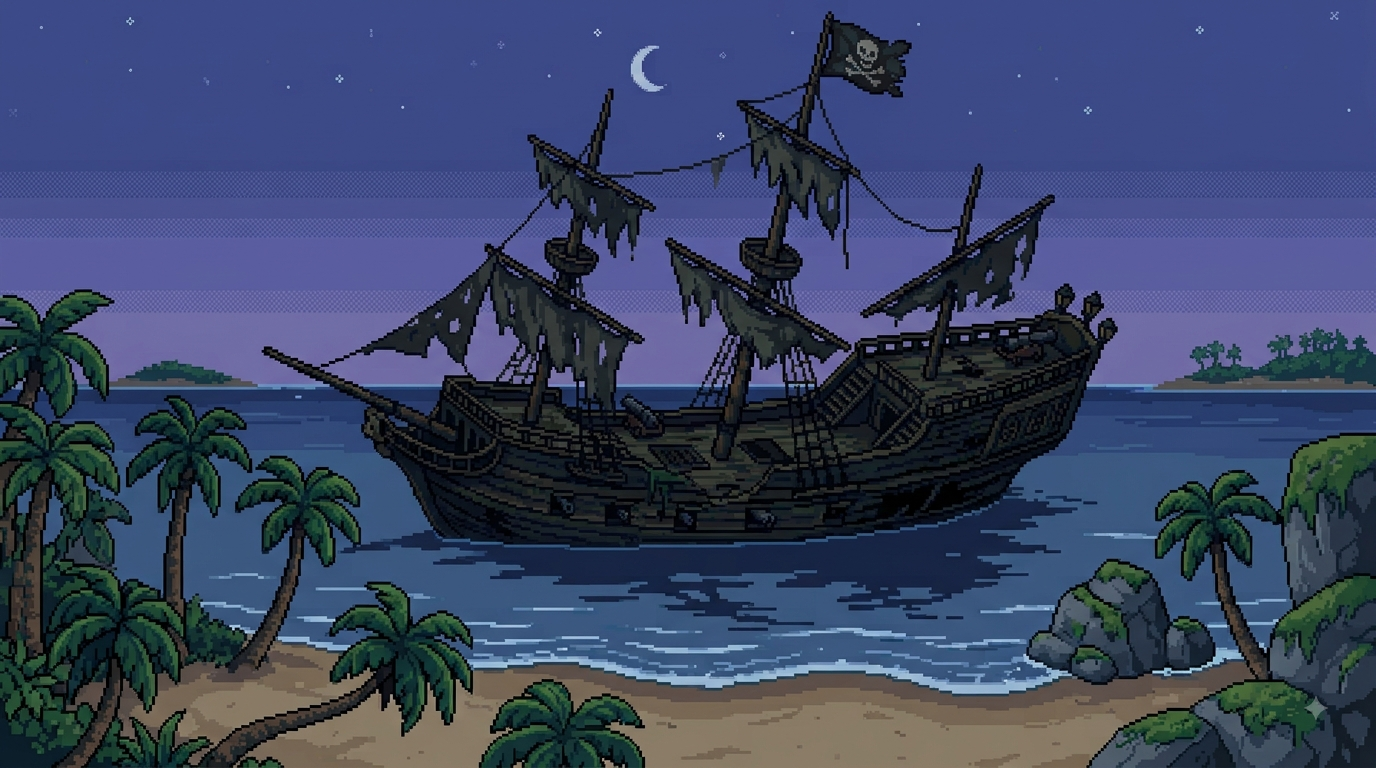
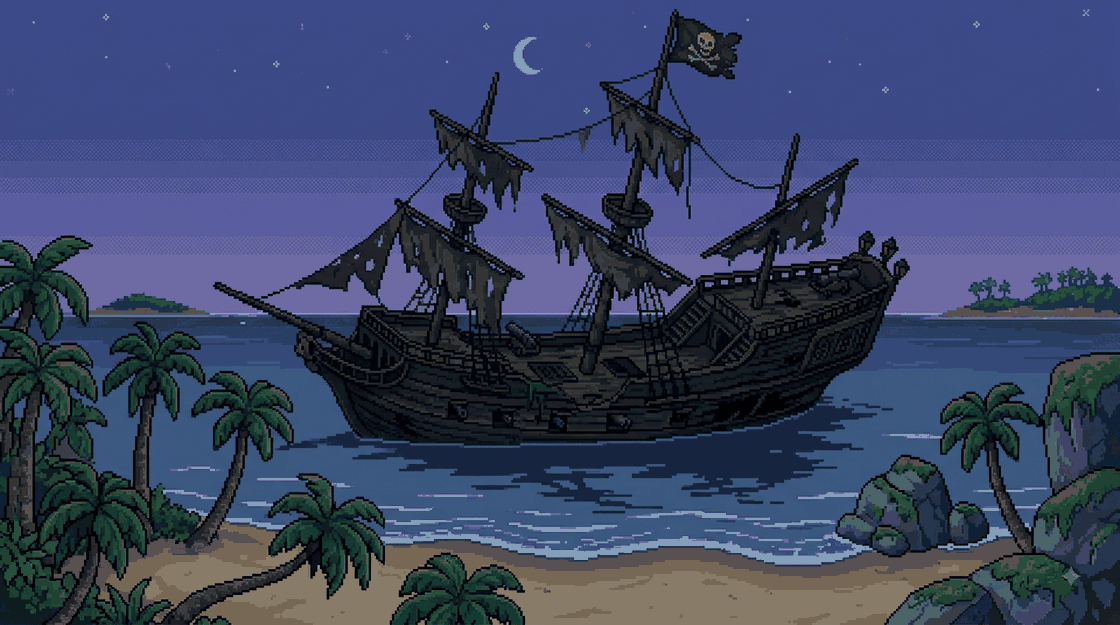
Cut the download from 6.9MB to 1.7MB, mostly by not shipping dead art
Everyone who opens a published game link downloads public/ before the
title screen appears. It was 6.9MB. Two separate problems, and neither
was the one the plan predicted.

**1.8MB was art nothing loads.** The parallax scene pool is dormant —
its only references are commented out in BootScene — but Vite copies
public/ verbatim, so eight PNGs for a switched-off feature were a
quarter of every visitor's download. Moved to art-source/, outside
public/, so it stays in the repo for whenever the picker returns
without being shipped meanwhile.

That move was going to be a deletion, on the strength of the generator
script's claim that its output is byte-identical on a re-run. Checked
before trusting it: six of the eight files reproduce exactly and
green-valley's two do not. The claim is now corrected in the script,
and the committed PNGs are named as the source of truth. Had I not
checked, restoring that art later would have silently produced
different pictures.

**The three big static backgrounds were stored wrong.** I planned this
as "painted art saved as PNG, re-encode to JPEG". The pixels disagreed:
they are pixel art — flat bands, a dithered sky, 1px stars — which is
exactly what JPEG smears. They were also 1376x768 while being cover-fit
onto a 1050x468 canvas, so a third of every pixel was unreachable.

Right-sizing to 1120px and quantizing to a 64-colour palette gets
4133KB down to 654KB while staying PNG and staying crisp — measured
[…]

diff --git a/src/scenes/BootScene.ts b/src/scenes/BootScene.ts
@@ -91,6 +91,14 @@ export class BootScene extends Phaser.Scene {
     // backgrounds.ts's docstring — so they were dropped from the pool
     // entirely.
     //
+    // **The art moved out of public/ on 2026-09-04** and now lives in
+    // `art-source/parallax-scenes/`. Vite copies public/ verbatim, so eight
+    // dormant PNGs nothing preloads were still 1.8MB of every visitor's
+    // download — a quarter of the whole site — for a feature that is switched
+    // off. Reviving the picker means moving them back here *and* uncommenting
+    // the loop below; the loop is left pointing at the old path on purpose, so
+    // whoever does one is forced to notice the other.
+    //
     // for (const scene of ["green-valley", "pirate-cove", "overgrown-ruins", "snowy-peaks"]) {
     //   this.load.image(`bg-${scene}-far`, `assets/backgrounds/scenes/${scene}-far.png`);
     //   this.load.image(`bg-${scene}-near`, `assets/backgrounds/scenes/${scene}-near.png`);

diff --git a/scripts/optimise-static-backgrounds.py b/scripts/optimise-static-backgrounds.py
@@ -1,0 +1,93 @@
+#!/usr/bin/env python3
+"""Right-sizes and re-quantizes the four shipped static backgrounds in place.
+
+These are the images `StaticBackground.ts` renders cover-fit behind a level
+(see level/staticBackgrounds.ts for the pool). Three of them were committed at
+1376x768 in full 24-bit colour and cost 4.1MB between them — most of the whole
+site's payload, downloaded by everyone who opens a published game link.
+
+Two things were wrong with that, and neither is the format:
+
+  * **They were larger than they can ever render.** The canvas is 1050x468
+    (config/gameConfig.ts) and these are cover-fit onto it, so anything past
+    ~1120px wide is detail the player never sees. Resizing is a pure win.
+
+  * **They are pixel art stored as though they were photographs.** Flat colour
+    bands, a dithered sky gradient and single-pixel stars — content with very
+    few *intended* colours, saved with tens of thousands of actual ones after
+    some earlier resample. Quantizing back to a 64-colour palette is close to
+    restoring the art's own intent, and indexed PNG compresses it hard.
+
+JPEG was measured and rejected: at a matching size it smears exactly the dither
+and the 1px stars that this art is made of, and it would have meant changing
+every filename the loader asks for. Staying PNG means **no code change at all**.
+
+Measured result: 4133KB -> 634KB, with the on-screen difference invisible at the
+scale these render (checked side by side before this script was written).
+
+Idempotent: an image already within the size and palette targets is left alone,
+so re-running this is safe and a second pass never re-quantizes already-indexed
+art.
+"""
+
+import os
+from pathlib import Path
+
+from PIL import Image
+
+REPO_ROOT = Path(__file__).resolve().parent.parent
+STATIC_DIR = REPO_ROOT / "public" / "assets" / "backgrounds" / "static"
+
+# A little wider than the 1050px canvas so a cover-fit never samples past the
+# edge, and so a slightly wider canvas later does not immediately need new art.
+TARGET_WIDTH = 1120
+# 64 was chosen by measuring 32/48/64/128: 64 is where the sky gradient stops
+# banding visibly against the original, and the file is still ~270KB at worst.
+PALETTE_COLOURS = 64
+
+
+def already_optimised(image: Image.Image) -> bool:
+    """True when this file has been through here before.
+
+    Checked rather than tracked in a manifest: the two properties this script
+    sets are both readable straight off the image, so the file is its own record
+    of whether the work is done.
+    """
+    if image.width > TARGET_WIDTH:
+        return False
+    colours = image.getcolors(maxcolors=PALETTE_COLOURS)
+    return colours is not None
+
+
+def optimise(path: Path) -> tuple[int, int]:
+    before = os.path.getsize(path)
+    image = Image.open(path)
+    if already_optimised(image):
+        return before, before
+
+    if image.width > TARGET_WIDTH:
+        height = round(image.height * TARGET_WIDTH / image.width)
+        # LANCZOS rather than NEAREST: the source is *not* clean pixel art any
+        # more (it carries resample artefacts already), so preserving its
+        # apparent detail beats trying to snap it back to a pixel grid it no
+        # longer sits on. The quantize below is what restores the flat bands.
+        image = image.resize((TARGET_WIDTH, height), Image.LANCZOS)
+
+    image = image.convert("RGB").quantize(colors=PALETTE_COLOURS, method=Image.MEDIANCUT)
+    image.save(path, "PNG", optimize=True)
+    return before, os.path.getsize(path)
+
+
+def main() -> None:
+    total_before = total_after = 0
+    for path in sorted(STATIC_DIR.glob("*.png")):
+        before, after = optimise(path)
+        total_before += before
+        total_after += after
+        note = " (already optimised)" if before == after else ""
+        print(f"{path.name:24s} {before / 1024:7.0f}KB -> {after / 1024:7.0f}KB{note}")
+    print(f"{'TOTAL':24s} {total_before / 1024:7.0f}KB -> {total_after / 1024:7.0f}KB")
+
+
+if __name__ == "__main__":
+    main()

diff --git a/scripts/generate-painted-backgrounds.py b/scripts/generate-painted-backgrounds.py
@@ -22,9 +22,22 @@ descriptions. `pirate-cove`/`overgrown-ruins`/`snowy-peaks` replace
 earlier, sparser versions of the same three scenes; `green-valley` is
 new and is the pool's default (see backgrounds.ts).
 
-Reproducible: every random placement below is seeded, so re-running this
-script regenerates byte-identical output. Not part of the build — run it
-once, commit the PNGs, same as prepare-kenney-assets.py.
+Not part of the build — run it once, commit the PNGs, same as
+prepare-kenney-assets.py.
+
+**Its output is NOT byte-identical on a re-run, despite the seeding.** That was
+claimed here and checked on 2026-09-04 before deleting the committed art on the
+strength of it: six of the eight files reproduce exactly, and `green-valley`'s
+two do not. Whatever drifts (an unseeded call in its generator, a Pillow version
+difference, or a later hand-edit) has not been chased down, because the art is
+committed and that is what the game would use. Treat the committed PNGs as the
+source of truth, not this script.
+
+The art lives in `art-source/parallax-scenes/`, deliberately *outside*
+`public/`: it is dormant (see BootScene's commented-out preload) and Vite copies
+`public/` verbatim, so leaving it there shipped 1.8MB to every visitor for art
+nothing loads. Move it back under public/assets/backgrounds/scenes/ when the
+parallax picker returns.
 """
 
 import random
@@ -36,7 +49,7 @@ WIDTH = 2048
 HEIGHT = 476
 
 REPO_ROOT = Path(__file__).resolve().parent.parent
-OUT_DIR = REPO_ROOT / "public" / "assets" / "backgrounds" / "scenes"
+OUT_DIR = REPO_ROOT / "art-source" / "parallax-scenes"
 
 
 def lerp_color(a, b, t):

diff --git a/README.md b/README.md
@@ -4689,6 +4689,9 @@ src/
 └── assets/
     └── generateTextures.ts   procedural art still in use: Castle's blocks + UI chrome
 
+art-source/
+└── parallax-scenes/          the dormant parallax art, kept out of public/ so it is not shipped — see BootScene's commented-out preload
+
 public/assets/
 ├── wizard/                   idle.png, walk1.png, walk2.png, jump.png, cast.png (hand-drawn)
 ├── entities/                 ghost-pillow.png (hand-drawn); caged-sheep.png (goal art, project-owner-supplied — see "Goal art" under Art); bat.png, bat-perched.png, spike-crawler.png, golem.png, trophy.png, chest.png (Kenney)
